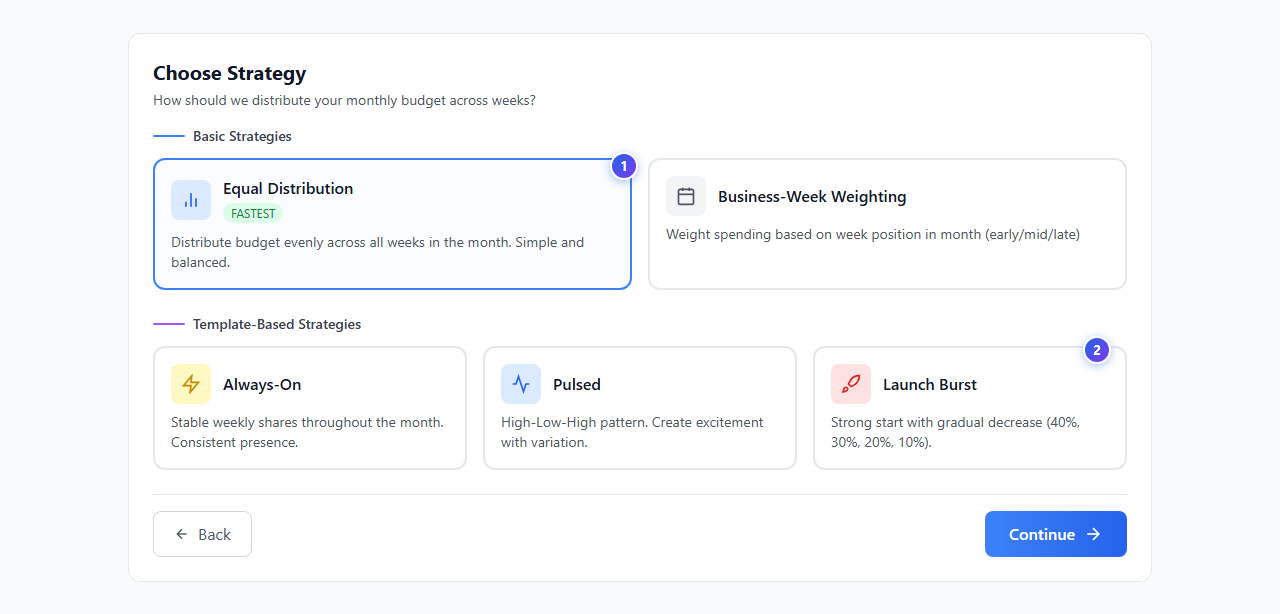
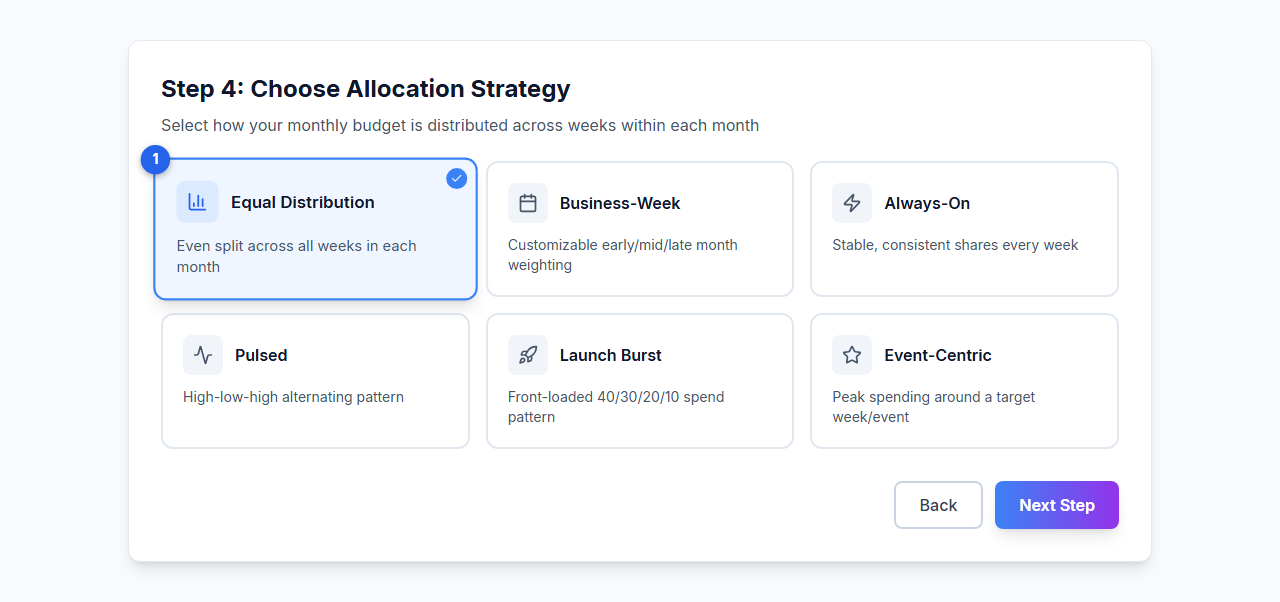
docs: rewrite scenario planning with pixel-accurate UI mockups and results dashboard
- Full rewrite of scenario-planning.md with 14 new screenshots from HTML/Tailwind mockups
- Added missing screenshots: Step 3 (budget grid), Step 6 (revenue multiplier), all results charts
- Fixed terminology: "95% credible interval" → "94% HDI (3%-97%)"
- Added results dashboard documentation: executive summary, forecast chart, ROAS comparison,
  waterfall, efficiency scatter, top performers, insights panel, performance table
- Fixed README.md: removed incorrect "aggressive, base, conservative projections" description
- Added CLAUDE.md with full documentation process rules and strict enforcement workflow
- All cross-references to core concepts pages verified

diff --git a/docs/platform-guide/scenario-planning.md b/docs/platform-guide/scenario-planning.md
@@ -2,17 +2,22 @@
 
 Scenario Planning lets you explore how different budget allocations and market conditions affect future revenue. Using the [Bayesian model](../core-concepts/bayesian-modeling.md) fitted during [Incremental Measurement](./measurement.md), you create custom spend plans and generate revenue predictions with uncertainty bands powered by the full posterior distribution.
 
-![Scenario Planning Workflow](./images/scenario-workflow.png)
-*The scenario planning process: choose a mode, configure your budget, set allocation strategy, adjust control variables, generate predictions, and analyze the results dashboard.*
-
 ---
 
 ## Choosing a Planning Mode
 
 When you open the Scenario Planner, you are presented with two planning modes. Both produce the same prediction output --- the difference is how you build the input plan.
 
-![Monthly vs Advanced Planner](./images/planner-comparison.png)
-*The Monthly Planner (left) walks you through a guided wizard. The Advanced Planner (right) gives you a full spreadsheet grid for week-by-week control.*
+![Scenario Planning Landing Page](./images/scenario-landing.png)
+*The Scenario Planner landing page with Monthly Planner (recommended, left) and Advanced Planner (right).*
+
+**① Header** --- The Scenario Planner opens with "Plan Your Marketing Future" and a brief description.
+
+**② Monthly Planner card** --- Blue-themed card with a Calendar icon and green "RECOMMENDED" badge. Features a guided wizard flow for month-based planning.
+
+**③ RECOMMENDED badge** --- Green badge with Sparkles icon indicating this is the suggested starting point.
+
+**④ Advanced Planner card** --- Purple-themed card with a BarChart3 icon and "ADVANCED" badge. Provides full spreadsheet control over every period.
 
 ### Monthly Planner (Recommended)
 
@@ -38,13 +43,14 @@ The Monthly Planner is a 6-step wizard that converts high-level monthly budgets 
 
 Set your total marketing budget and review the planning period.
 
-| Element | Description |
-|---|---|
-| **Total Budget** | The total amount to allocate across all channels and months |
-| **Planning Period** | Auto-calculated from your selected horizon (1, 3, or 6 months). Weeks are grouped by calendar month, with partial months highlighted in amber |
-| **Configuration Summary** | Shows total budget, duration, average per month, and total periods |
+![Step 1: Budget Configuration](./images/scenario-wizard-step1.png)
+*Set the total budget and review the planning period summary.*
 
-The planning period starts from the next period after your model's last data point. If your model data ends mid-month, the first planning month will be partial (fewer weeks) and is flagged accordingly.
+**① Planning period summary** --- Shows the number of months, total weeks, and flags any partial months with an amber badge. The planning period starts from the next period after your model's last data point.
+
+**② Total budget input** --- Enter your total marketing budget. Default is $120,000 for a 3-month horizon. This total is distributed evenly across channels in the next step.
+
+**③ Info box** --- Reassurance that the total budget is just a starting point --- you can adjust individual channel budgets in the next step.
 
 ### Step 2: Configure Channel Costs
 
@@ -61,59 +67,53 @@ Channels with metric type "Spend" do not require a cost column (spend is entered
 
 Average costs are pre-filled from historical data when available. The system calculates cost-per-unit from your model's last year of data.
 
-**Proxy channels** can be added at the bottom of this step. A proxy channel borrows the response curve of an existing reference channel, allowing you to model new channels (e.g., Podcasts) that were not in the original training data. Proxy channels appear with a blue highlight and a "(Proxy)" label.
+**Proxy channels** can be added at the bottom of this step. A proxy channel borrows the [response curve](../core-concepts/saturation-curves.md) of an existing reference channel, allowing you to model new channels (e.g., Podcasts) that were not in the original training data. Proxy channels appear with a blue highlight and a "Proxy" badge.
 
 ### Step 3: Enter Monthly Budgets
 
 Allocate spend to each channel for each month using an editable AG Grid.
 
-| Column | Description |
-|---|---|
-| **Channel** (pinned) | Channel name |
-| **Total Budget** (pinned, blue) | Total budget for this channel across all months. Editing this auto-distributes evenly across months |
-| **Monthly columns** (green) | Per-month budget for this channel. Editing any month recalculates the channel total |
+![Step 3: Monthly Budgets](./images/scenario-wizard-step3.png)
+*The budget grid with channels as rows and months as columns. Proxy channels are highlighted with a blue "Proxy" badge.*
 
-Partial months are shown with an amber background and include a "(Nw)" suffix showing the number of weeks in that month. Budget is distributed proportionally across the actual weeks in each month.
+**① Channel column** (pinned left) --- Channel names with proxy channels marked by a blue badge.
+
+**② Monthly columns** (green headers) --- Per-month budget for each channel. Partial months show the week count (e.g., "Mar 2025 (2w)"). Editing any month recalculates the channel total.
+
+**③ Total Budget column** (pinned right, blue) --- Total budget for each channel across all months. Editing this auto-distributes evenly across months.
+
+**④ Proxy channel row** --- Podcast shown with blue "Proxy" badge, using the response curve from its reference channel.
 
 ### Step 4: Choose Allocation Strategy
 
 Select how each month's budget is distributed across the weeks (or days) within that month.
 
-![Allocation Strategies](./images/allocation-strategies.png)
-*Six allocation strategies control how monthly budgets are split into weekly (or daily) values.*
+![Step 4: Allocation Strategy](./images/scenario-wizard-step4.png)
+*Six allocation strategies control how monthly budgets are split into weekly (or daily) values. The selected strategy (Equal Distribution) is highlighted with a blue border.*
 
-| Strategy | Behavior |
-|---|---|
-| **Equal Distribution** | Budget split evenly across all periods. Simple and balanced |
-| **Business-Week Weighting** | Customizable weights for early, mid, and late month (sliders from 0.5x to 1.5x) |
-| **Always-On** | Stable shares throughout the month for consistent media presence |
-| **Pulsed** | High-Low-High pattern to create variation and maintain audience interest |
-| **Launch Burst** | Front-loaded spending (40%, 30%, 20%, 10%) for product launches or campaign openings |
-| **Event-Centric** | Peak spending concentrated in a specific week, ideal for promotions and events |
+**① Selected strategy** --- Blue border and blue background indicate the active selection (Equal Distribution shown here).
+
+| Strategy | Icon | Behavior |
+|---|---|---|
+| **Equal Distribution** | BarChart3 | Budget split evenly across all periods. Simple and balanced |
+| **Business-Week** | Calendar | Customizable weights for early, mid, and late month (sliders from 0.5x to 1.5x) |
+| **Always-On** | Zap | Stable, consistent shares throughout the month |
+| **Pulsed** | Activity | High-low-high alternating pattern for variation |
+| **Launch Burst** | Rocket | Front-loaded spending (40%, 30%, 20%, 10%) for product launches |
+| **Event-Centric** | Star | Peak spending concentrated in a specific week, ideal for promotions |
 
 ### Step 5: Business Scenario Adjustments (Conditional)
 
 This step appears only if your model includes control variables (non-media drivers like pricing, distribution, or promotions). It lets you run "what-if" scenarios by adjusting these factors relative to their historical baseline.
 
-![Control Variable Adjustments](./images/control-adjustments.png)
+![Step 5: Control Adjustments](./images/scenario-wizard-step5.png)
 *Adjust non-media drivers by percentage. The KPI impact indicator shows whether each change helps or hurts predicted sales.*
 
-Control variables are grouped into four categories:
+**① Pricing Factors** --- Variables related to price, cost, or discount. Each has a slider and shows the impact direction (↑ Revenue or ↓ Revenue) based on the model's coefficient sign.
 
-| Category | Examples | Impact Direction |
-|---|---|---|
-| **Pricing** | Price index, unit cost | Higher price typically *decreases* sales |
-| **Distribution** | Store count, availability | Higher distribution *increases* sales |
-| **Promotional** | Promo depth, discount rate | More promotion *increases* sales |
-| **Automatic** | Seasonality, trend, intercept | Read-only; auto-populated from historical patterns |
+**② Distribution Factors** --- Variables like store count or availability. A 0% adjustment means using the baseline value.
 
-Each editable control has a slider (-50% to +50%) that adjusts the variable relative to its historical baseline mean. The "KPI" indicator to the right shows the expected impact direction based on the model's coefficient sign.
-
-**Preset scenarios** are available for quick configuration:
-- **Price +5%** --- Apply a 5% increase to all pricing variables
-- **Distribution +10%** --- Apply a 10% increase to all distribution variables
-- **Promo Push +20%** --- Apply a 20% increase to all promotional variables
-- **Reset All** --- Return all adjustments to 0%
+**③ Automatic (Read-Only)** --- [Seasonality](../core-concepts/seasonality.md), trend, and intercept variables are projected forward automatically from historical patterns. These cannot be edited.
 
 You can also **Skip** this step to use baseline (unadjusted) values for all controls.
 
@@ -121,15 +121,18 @@ You can also **Skip** this step to use baseline (unadjusted) values for all cont
 
 Set a multiplier to convert the model's predicted target variable into revenue.
 
+![Step 6: Revenue Multiplier](./images/scenario-wizard-step6.png)
+*Set monthly revenue multipliers. A value of 1.0 uses the raw model prediction directly.*
+
+**① Multiplier inputs** --- One column per planning month. Default is 1.0 (no conversion). Adjust for seasonal pricing or to convert units to revenue.
+
 | Model Type | Multiplier Represents | Example |
 |---|---|---|
 | Volume/Units | Average price per unit | $25.00 |
 | Customer Acquisition | Customer lifetime value (LTV) | $500.00 |
 | Revenue/Sales | No conversion needed | 1.00 |
 
-The multiplier can vary by month --- edit the "Avg Multiplier" column to auto-fill all months, then customize individual months if seasonal pricing applies.
-
-After completing Step 6, the wizard converts your monthly budget plan into period-level rows (weekly or daily), merges control variables from historical data, and transitions you to the Advanced Planner grid for final review.
+After completing Step 6, the wizard converts your monthly budget plan into period-level rows (weekly or daily), merges control variables, and transitions to the prediction phase.
 
 ---
 
@@ -137,23 +140,19 @@ After completing Step 6, the wizard converts your monthly budget plan into perio
 
 The Advanced Planner presents a full AG Grid spreadsheet with one row per period (week or day) and columns for every variable in the model.
 
-| Feature | Description |
-|---|---|
-| **Model info bar** | Shows last date, variable count, periodicity, and total periods |
-| **Weekly Planning Grid** | Editable AG Grid with date rows and channel columns |
-| **Save Grid** | Download the current grid as JSON for reuse |
-| **Upload Grid** | Import a previously saved JSON grid (also supports CSV and Excel) |
-| **Predict Results** | Submit the scenario for Bayesian prediction |
+![Advanced Planner](./images/scenario-advanced-planner.png)
+*The Advanced Planner grid with model info bar, download/upload buttons, and color-coded columns.*
+
+**① Model info bar** --- Shows last data date, variable count, periodicity, and total planning periods.
+
+**② Action buttons** --- Download Template (export as CSV), Upload Template (import from CSV/Excel), and Predict Results (submit for Bayesian prediction).
+
+**③ Color-coded legend** --- Media channels (white, editable), control variables (yellow italic, editable), proxy channels (blue, editable).
 
 The grid is pre-filled using one of these sources (in priority order):
 1. **Wizard data** --- If you came from the Monthly Planner, the wizard output populates the grid
 2. **Last year data** --- Historical activity from the same period one year ago
 3. **Empty template** --- A blank grid with the correct dates and channel names
-
-**Cell color coding:**
-- White cells --- Media channels (editable)
-- Yellow italic cells --- Control variables (auto-filled from history, editable)
-- Blue cells --- Proxy channels (editable)
 
 **Tips:**
 - Copy and paste from Excel using Ctrl+C / Ctrl+V
@@ -169,7 +168,7 @@ Scenario planning does **not** update forecasts in real time as you edit. Instea
 1. Configure your scenario in either the Monthly Planner wizard or the Advanced Planner grid.
 2. Click **Predict Results** to queue the forecast.
 3. The prediction runs asynchronously on the server. The UI polls for results every 5 seconds.
-4. When complete, the Scenario Performance Dashboard appears with full visualizations.
+4. When complete, the Scenario Results Dashboard appears with full visualizations.
 
 Each prediction uses the full [Bayesian](../core-concepts/bayesian-modeling.md) posterior from your fitted model. The forecast applies the [adstock](../core-concepts/adstock-effects.md) and [saturation](../core-concepts/saturation-curves.md) transforms to your planned activity, then generates predictions with uncertainty bands from all posterior samples.
 
@@ -179,11 +178,8 @@ Each prediction uses the full [Bayesian](../core-concepts/bayesian-modeling.md) 
 
 Every forecast includes uncertainty bands showing the range of plausible outcomes:
 
-![Forecast with Confidence Interval](./images/scenario-forecast.png)
-*The forecast chart shows actual sales (cyan), predicted sales (purple dashed), and the 95% confidence interval (shaded band). The dashed vertical line marks the boundary between historical fit and forward projection.*
-
 - The **prediction line** shows the median forecast from the Bayesian posterior.
-- The **shaded band** shows the 95% credible interval --- the range within which the outcome will fall with 95% probability given the model and planned inputs.
+- The **shaded band** shows the 94% HDI (Highest Density Interval) --- the range containing 94% of the posterior probability mass. The UI displays this as "95% CI" for readability.
 
 Wider bands indicate greater uncertainty. This typically happens when:
 
@@ -197,55 +193,88 @@ Wider bands indicate greater uncertainty. This typically happens when:
 
 When predictions complete, a comprehensive results dashboard appears with multiple views.
 
-![Results Dashboard](./images/results-overview.png)
-*The results dashboard includes channel ROAS comparison (left), revenue decomposition waterfall (center), and efficiency scatter plot (right).*
+### Executive Summary
 
-### Prediction Summary
+Three gradient hero cards show the top-level forecast metrics (out-of-sample periods only):
 
-Three hero cards show the top-level forecast metrics (out-of-sample periods only):
+![Executive Summary](./images/scenario-results-summary.png)
+*Three gradient cards: Total Investment (blue), Predicted Return (green), and Portfolio ROAS (purple) with quality rating.*
 
-| Card | Metric |
-|---|---|
-| **Total Predicted Sales** | Sum of predictions across all forecast periods |
-| **Average Weekly Sales** | Mean prediction per period in the forecast window |
-| **Growth vs Historical** | Percentage change between forecasted average and historical in-sample average |
+**① Total Investment** (blue) --- Total media spend across all planned periods. Excludes [halo and trademark](../core-concepts/halo-effects.md) spend. Shows the number of weeks planned.
+
+**② Predicted Return** (green) --- Total predicted revenue from all media channels. Shows the average per-week revenue.
+
+**③ Portfolio ROAS** (purple) --- Return on ad spend across the full portfolio. Includes a quality rating: Excellent (≥ 4.0x), Good (≥ 2.5x), or Below Target (< 2.5x).
 
 ### Sales Forecast Chart
 
-An interactive time series chart showing:
-- **Actual** values (cyan line) for in-sample periods
-- **Prediction** values (indigo dashed line) for both in-sample and out-of-sample periods
-- **95% confidence interval** (indigo shaded band) that widens over the forecast horizon
-- A toggle to show/hide the confidence interval
-- Filters to view All Data, In-Sample only, or Out-of-Sample only
+![Sales Forecast](./images/scenario-results-forecast.png)
+*Actual sales (cyan), predicted sales (indigo dashed), and the 94% HDI band (indigo gradient). The dashed vertical line marks the forecast boundary.*
 
-### Media Performance Analysis
+**① Filter toggle** --- Switch between All Data, In-Sample, and Out-of-Sample views.
 
-This section appears when spend data is available (from the Monthly Planner or when metric costs are configured):
+**② CI toggle** --- Show or hide the confidence interval band.
 
-| Component | Description |
+The chart uses a Recharts ComposedChart with:
+- **Actual** values (cyan `#06b6d4` solid line) for in-sample periods
+- **Prediction** values (indigo `#6366f1` dashed line) for both in-sample and out-of-sample periods
+- **94% HDI band** (indigo gradient, from 30% to 5% opacity) that widens over the forecast horizon
+- A "Forecast Start" reference line at the in-sample/out-of-sample boundary
+
+### Channel ROAS Comparison
+
+![Channel ROAS](./images/scenario-results-roas.png)
+*Horizontal bar chart comparing ROAS across all media channels. Green = above portfolio average, red = below average, blue = proxy channels.*
+
+Channels are ranked by ROAS (return on ad spend). The dashed vertical line shows the portfolio average ROAS. [Halo and trademark channels](../core-concepts/halo-effects.md) are excluded from this chart since their ROAS is misleading (they have no direct spend on the current brand).
+
+### Revenue Breakdown (Waterfall)
+
+![Revenue Waterfall](./images/scenario-results-waterfall.png)
+*Waterfall chart showing how each channel contributes to total media revenue. Green = standard channels, blue = proxy channels, purple = total.*
+
+The waterfall shows cumulative revenue contributions from each channel, building up to the total media revenue. Each bar is labeled with its contribution value.
+
+### Efficiency vs Effectiveness
+
+![Efficiency Scatter](./images/scenario-results-scatter.png)
+*Bubble chart plotting ROAS (Y-axis) against total contribution (X-axis). Bubble size represents spend. Channels are categorized into four quadrants.*
+
+The scatter plot divides channels into four quadrants based on portfolio averages:
+
+| Quadrant | Meaning |
 |---|---|
-| **Executive Summary** | Three gradient cards showing Total Investment, Predicted Return, and Portfolio ROAS with a quality rating (Excellent/Good/Below Target) |
-| **Channel Performance Table** | Per-channel metrics: spend, contribution, ROAS, and share of total |
-| **Channel ROAS Chart** | Horizontal bar chart comparing ROAS across all media channels |
-| **Contribution Waterfall** | Stacked breakdown showing how each channel and non-media factor contributes to total predicted revenue |
-| **Contribution Time Series** | Area chart showing how channel contributions evolve week by week |
-| **Efficiency Scatter** | Spend vs. ROAS scatter plot with portfolio average reference line |
+| **⭐ Star Performers** | High ROAS + High Contribution --- your best channels |
+| **💎 Efficient** | High ROAS + Low Contribution --- opportunity to scale up |
+| **📊 Effective** | Low ROAS + High Contribution --- volume drivers with diminishing returns |
+| **⚠ Optimize** | Low ROAS + Low Contribution --- candidates for budget reallocation |
 
-### Insight Cards
+### Top Performers and Insights
 
-| Card | Content |
-|---|---|
-| **Top Performers** | Channels with the highest ROAS in this scenario |
-| **Opportunities** | Optimization suggestions --- channels above or below portfolio average |
-| **Weekly Breakdown** | Best and worst performing periods, plus consistency score |
+![Top Performers and Insights](./images/scenario-results-performers.png)
+*Top 3 channels by ROAS with medal ranking, plus the Scenario Insights panel with OOS metrics.*
+
+**① Top Performers** --- The three highest-ROAS channels with medal emojis (🥇🥈🥉), showing spend, ROAS, and revenue for each.
+
+**② Scenario Insights** --- Blue gradient panel with OOS Total Revenue, OOS Average per Week, and OOS Growth vs History. Includes an Export CSV button.
+
+### Channel Performance Table
+
+![Channel Performance Table](./images/scenario-results-table.png)
+*Detailed per-channel metrics: rank, spend, contribution, revenue, and ROAS. Proxy channels are marked with a blue badge.*
+
+The table shows all channels ranked by performance, with:
+- Medal emojis (🥇🥈🥉) for the top 3 channels
+- Proxy channels highlighted with a blue "Proxy" badge
+- ROAS color-coded: green for above average, amber for moderate, red for below average
 
 ### Additional Analysis
 
 | Component | Description |
 |---|---|
 | **Control Contributions Card** | Shows the impact of Step 5 adjustments (pricing, distribution, promotional changes) on predicted revenue |
-| **Proxy Spotlight** | Detailed performance of any proxy channels added during planning |
+| **Opportunities Card** | Identifies under-invested channels with strong ROAS and recommends budget reallocation |
+| **Weekly Breakdown** | Best and worst performing periods, average weekly performance, and volatility (coefficient of variation) |
 | **Export CSV** | Download the full prediction data (dates, actuals, predictions, confidence bounds, per-channel contributions) as a CSV file |
 
 ---
@@ -268,7 +297,7 @@ See [Portfolio Analysis](./portfolio-analysis.md) for the full portfolio workflo
 
 Scenarios are most useful when paired with a decision framework:
 
-- **Marginal analysis**: Compare scenarios that differ by a single change (one channel budget increase) to isolate the expected impact of that change
+- **Marginal analysis**: Compare scenarios that differ by a single change (one channel budget increase) to isolate the expected [incremental](../core-concepts/incrementality.md) impact of that change
 - **Risk assessment**: Use the width of uncertainty bands to gauge confidence. Narrow bands suggest reliable forecasts; wide bands suggest more risk
 - **Control variable testing**: Use Step 5 adjustments to model how changes in pricing, distribution, or promotions interact with your media plan
 - **Threshold testing**: Set a revenue target and test which budget configurations achieve it within the confidence bands
@@ -292,4 +321,7 @@ After identifying your preferred budget plan, proceed to [Budget Optimization](.
 - [Bayesian Modeling](../core-concepts/bayesian-modeling.md) --- How the posterior distribution drives uncertainty bands
 - [Saturation Curves](../core-concepts/saturation-curves.md) --- Diminishing returns in media response
 - [Adstock Effects](../core-concepts/adstock-effects.md) --- Carryover effects from media spend
+- [Priors and Distributions](../core-concepts/priors-and-distributions.md) --- How prior knowledge shapes predictions
+- [Seasonality](../core-concepts/seasonality.md) --- Fourier terms and trend modeling
+- [Halo Effects](../core-concepts/halo-effects.md) --- Cross-brand marketing effects
 - [Incrementality](../core-concepts/incrementality.md) --- Measuring true incremental impact

diff --git a/docs/platform-guide/README.md b/docs/platform-guide/README.md
@@ -14,7 +14,7 @@ This guide covers every major feature of the Simba MMM platform, organized aroun
 
 ### Step 3: Predict
 
-- **[Scenario Planning](./scenario-planning.md)** --- Multi-scenario forecasting with aggressive, base, and conservative projections. Includes uncertainty bands, what-if budget reallocation, and revenue forecast charts for comparing possible futures.
+- **[Scenario Planning](./scenario-planning.md)** --- What-if forecasting with uncertainty bands. Configure monthly or weekly spend plans, adjust control variables, and generate Bayesian predictions with a comprehensive results dashboard including ROAS analysis, revenue decomposition, and efficiency scatter plots.
 
 ### Step 4: Optimize
 
